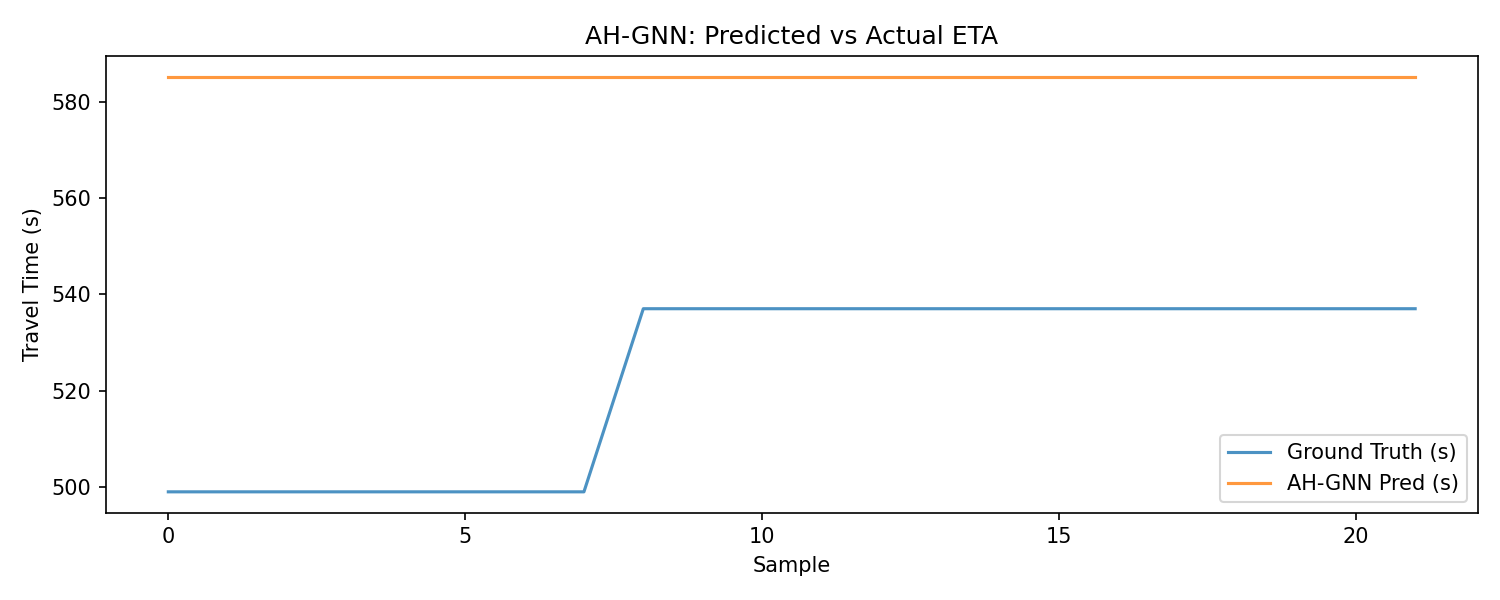
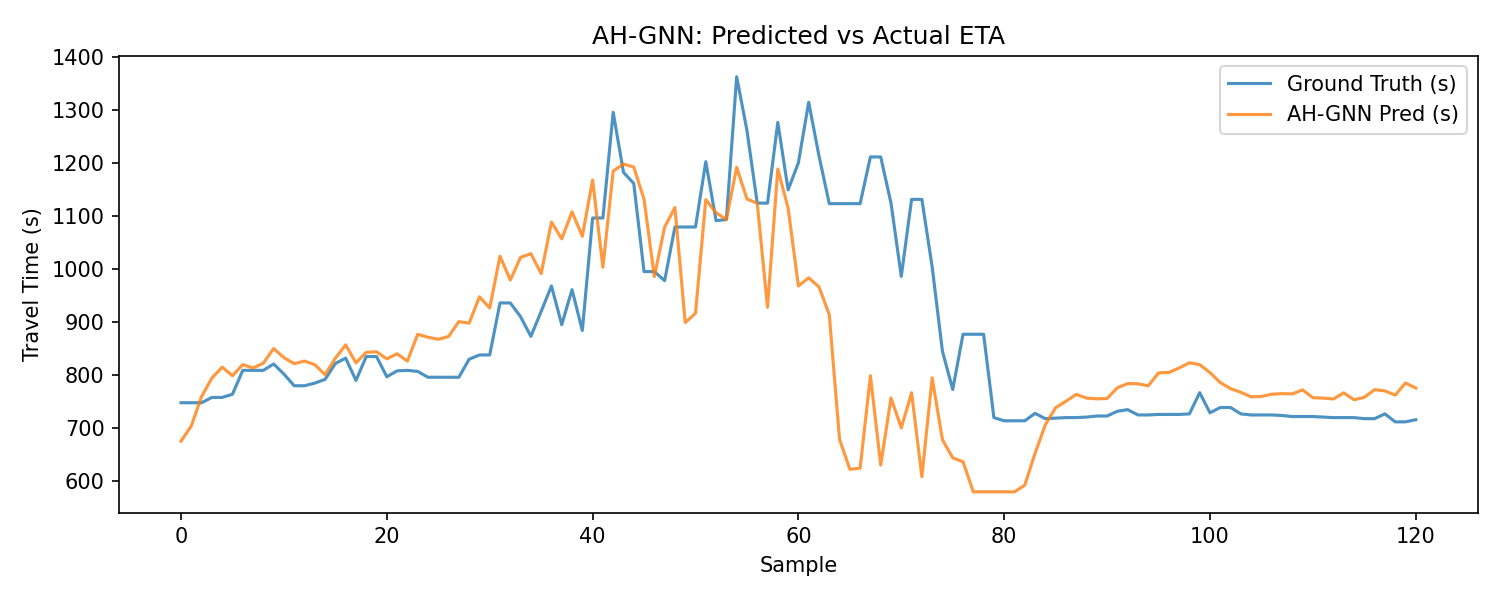
20/5

diff --git a/baseline.py b/baseline.py
@@ -33,7 +33,7 @@ os.makedirs("results", exist_ok=True)
 class LSTMBaseline(nn.Module):
     """Flatten tất cả node features → LSTM → predict ETA"""
 
-    def __init__(self, n_nodes, n_edges, in_dim=6, hidden_dim=64):
+    def __init__(self, n_nodes, n_edges, in_dim=9, hidden_dim=64):
         super().__init__()
         self.lstm = nn.LSTM(
             n_nodes * in_dim, hidden_dim, num_layers=2, batch_first=True, dropout=0.1
@@ -66,7 +66,7 @@ class StandardGCN(nn.Module):
 
 
 class GCNGRUBaseline(nn.Module):
-    def __init__(self, n_nodes, n_edges, in_dim=6, hidden_dim=32):
+    def __init__(self, n_nodes, n_edges, in_dim=9, hidden_dim=32):
         super().__init__()
         self.gcn1 = StandardGCN(in_dim, hidden_dim)
         self.gcn2 = StandardGCN(hidden_dim, hidden_dim)
@@ -119,7 +119,7 @@ class TemporalConv(nn.Module):
 
 
 class STGCNBaseline(nn.Module):
-    def __init__(self, n_nodes, n_edges, in_dim=6, hidden_dim=32):
+    def __init__(self, n_nodes, n_edges, in_dim=9, hidden_dim=32):
         super().__init__()
         self.input_proj = nn.Linear(in_dim, hidden_dim)
         self.gcn = StandardGCN(hidden_dim, hidden_dim)